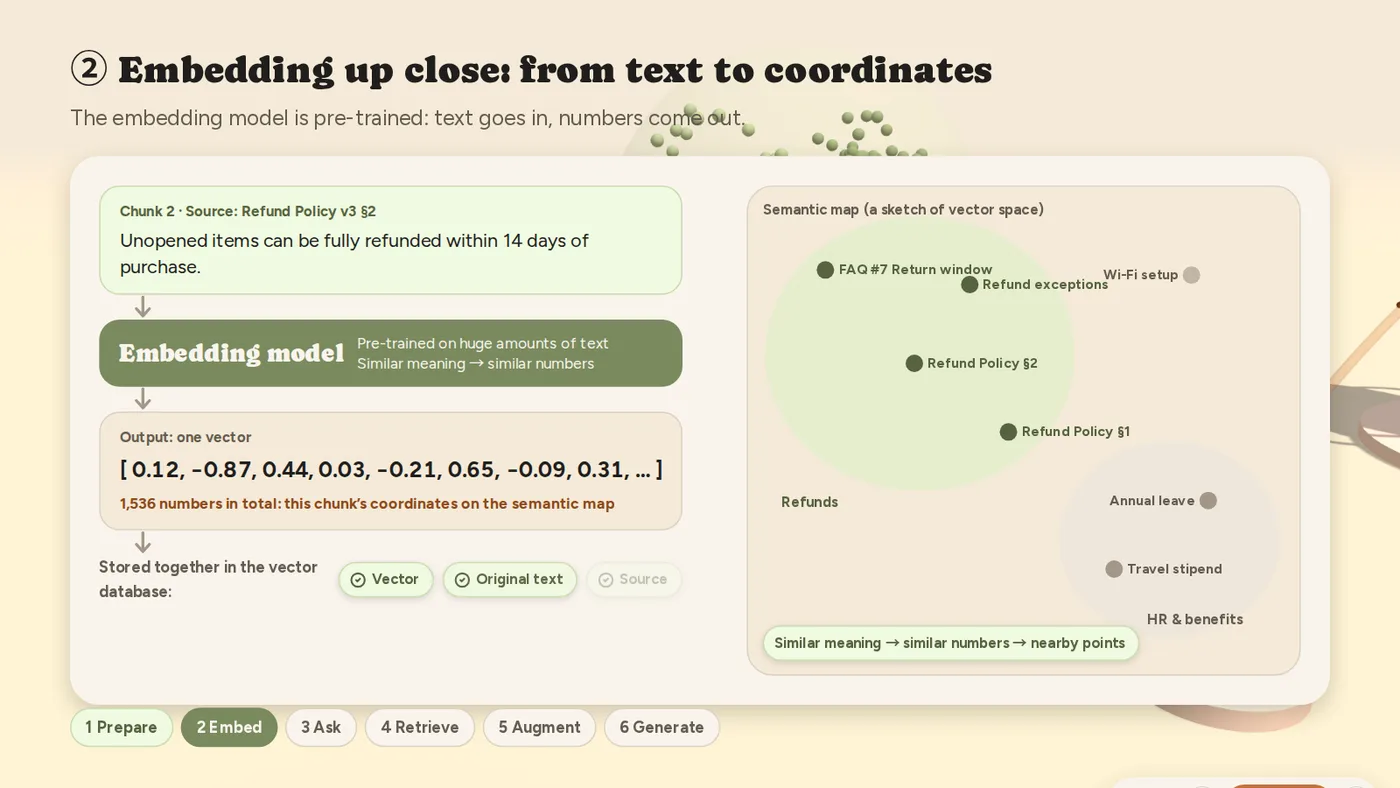
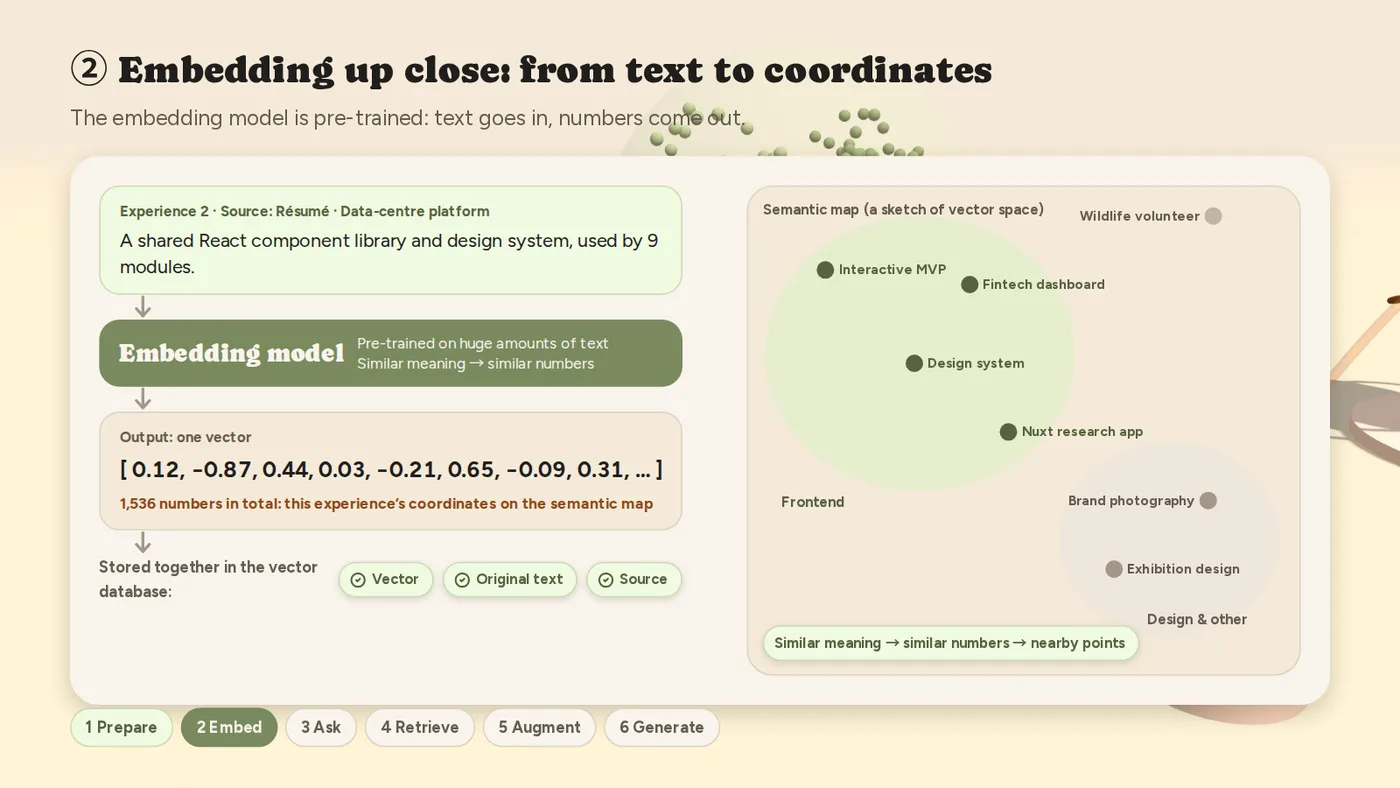
feat: retell the RAG project through the Pilotfit example
The RAG explainer now uses Pilotfit (job posting matched against a
user's experiences) instead of a refund policy. Portfolio copy follows
suit in EN / DE / ZH: challenge, the six chapters, and a technical
section grounded in Pilotfit's real setup (Gemini 1,536-dim embeddings,
pgvector + HNSW, 60/40 hybrid scoring, top 5 above a threshold). Gallery
screenshots re-captured from the updated animation; adds a pgvector tag.

Claude-Session: https://claude.ai/code/session_01Rn4QRhuYF2ZWV7ueBSbs3s

diff --git a/src/i18n/translations.ts b/src/i18n/translations.ts
@@ -635,20 +635,20 @@ export const translations: Record<Language, Translations> = {
           id: 'p-rag-explainer',
           title: 'How RAG Works — 3D Animated Explainer',
           description:
-            'An animated 3D explainer of Retrieval-Augmented Generation (RAG), the technique that lets an LLM answer from your own documents instead of its training memory. One question, "How long is our refund window?", travels through all six steps, from chunking to a cited answer, compared against an LLM guessing without RAG. Bilingual (EN / 中文) and fully offline.',
+            "An animated 3D explainer of Retrieval-Augmented Generation (RAG), told through Pilotfit, my AI job-search platform. One job posting travels through all six steps: the user's experiences are split, embedded and retrieved, and the analysis cites the experience it used, compared against an LLM that has never seen the user's background and can only guess. Bilingual (EN / 中文) and fully offline.",
           problem:
-            "What RAG is. A large language model answers from what it memorised during training. That knowledge is frozen at a cut-off date and has never seen your company's private documents, so when you ask about an internal policy it does not say \"I don't know\". It produces a fluent, confident guess.\n\nRetrieval-Augmented Generation fixes this without retraining the model. At question time the system first retrieves the most relevant passages from your own documents, then hands them to the model together with the question. The model answers from that evidence and cites where it came from.\n\nWhy it is hard to explain. The idea is simple, but the vocabulary is not: embeddings, vector databases, top-K, cosine similarity. Most explanations are either a box-and-arrow diagram or a wall of jargon. Stakeholders nod along and still expect the model to \"just know\" company policy, because they never see where an answer actually comes from.",
+            "What RAG is. A large language model answers from what it memorised during training. That knowledge is frozen at a cut-off date and has never seen private data, such as your company's documents or one job seeker's experience. So when it is asked about them, it does not say \"I don't know\". It produces a fluent, confident guess.\n\nRetrieval-Augmented Generation fixes this without retraining the model. At question time the system first retrieves the most relevant passages from your own data, then hands them to the model together with the question. The model answers from that evidence and cites where it came from.\n\nWhy an explainer. The idea is simple, but the vocabulary is not: embeddings, vector databases, top-K, cosine similarity. Most explanations are a box-and-arrow diagram or a wall of jargon, and people still expect the model to \"just know\". So this explainer uses a real product as its example: Pilotfit, where RAG matches a job posting against each user's own experience.",
           solution:
-            'I turned the pipeline into a story around one concrete question: "How long is our refund window?"\n\nIt opens with the failure case. Without RAG, the model answers "usually 30 days" with no source: a plausible hallucination. Then the same question travels through six chapters:\n1. Prepare: company documents are split into chunks with a small overlap, and every chunk keeps its source.\n2. Embed: an embedding model turns each chunk into a vector, its coordinates on a semantic map.\n3. Ask: the question is embedded with the same model.\n4. Retrieve: the question vector is compared with every chunk; the three closest win, with their similarity scores.\n5. Augment: the question and those three chunks become one prompt.\n6. Generate: the model answers from the chunks and cites Refund Policy v3 §2.\n\nIt closes with the three safeguards that keep retrieval reliable in production: hybrid search, reranking and citations.',
+            "The explainer follows one job posting through Pilotfit: \"Which of my experiences fits this job best?\"\n\nIt opens with the failure case. Without RAG, the model has never seen the user's experience, yet answers \"You're a great fit!\". Then the same posting travels through six chapters:\n1. Prepare: the résumé, projects and notes are split into one entry per experience, each auto-tagged with its technologies and kept with its source.\n2. Embed: an embedding model turns each experience into a vector, its coordinates on a semantic map.\n3. Ask: the job posting is embedded with the same model.\n4. Retrieve: the job vector is compared with every experience; the three closest win, with their similarity scores.\n5. Augment: the job and those three experiences become one prompt.\n6. Generate: the analysis names the best match, the shared React component library, and cites where it came from.\n\nIt closes with the safeguards against wrong picks, including the one Pilotfit actually uses: hybrid retrieval that weighs exact tech tags alongside vector similarity.",
           techDeepDive:
-            'RAG runs in two phases.\n\nIndexing (offline, whenever documents change): extract plain text from PDFs, wikis and databases; split it along paragraph boundaries into 300–500 character chunks, with a small overlap so no sentence is cut in half; attach source metadata (document, section) to every chunk; run each chunk through a pre-trained embedding model, which outputs a vector (1,536 numbers in the example) in which similar meaning lands close together; store the vector, the original text and the source together in a vector database.\n\nQuery time (every question): embed the question with the same model; rank chunks by cosine similarity, where 1 means the same meaning and 0 means unrelated (large collections use an approximate-nearest-neighbour index instead of comparing every chunk); keep the top K (here K = 3, scores 0.92 / 0.81 / 0.77); build an augmented prompt that tells the model to answer only from the provided context and to cite it; generate. Retrieval picks the relevant chunks, not the answer. The LLM still writes the answer, but now from evidence.\n\nWhere it goes wrong, and the fixes: bad chunking can split a key fact, and vague questions retrieve the wrong chunks. Hybrid search adds keyword matching to vector similarity, so product names, model numbers and clause IDs are not missed. Reranking retrieves a wider set (for example the top 20) and lets a second model read each chunk closely and re-order them. Citations let users and reviewers check the original.\n\nWhen to use it, and when not: RAG earns its complexity when the answer lives in private documents the model has never seen, when that information changes often, when answers need citations people can check, or when the material is too large to fit in one prompt. It is overkill for general knowledge the model already has, for a source of a few pages that can simply go into the prompt, for structured data (orders, stock), where a SQL query or an API call is more precise, and for rewriting, translating or changing tone, which involve no retrieval at all. Pilotfit applies the same idea: when it matches a job to a user\'s experiences, 60% of the score is embedding similarity and 40% is exact tech-tag overlap, so a specific technology is never left to vector distance alone.\n\nHow the explainer is built: a single 3:12 timeline drives a 3D scene (document stack, embedding ring, vector-database sphere, the user and the LLM planet), with HTML overlays for each close-up chapter so the text stays sharp and translatable. Every chapter reuses the same refund-policy example, so the numbers stay consistent end to end. Each language ships as one self-contained HTML file with scripts, styles and fonts inlined.',
+            "RAG runs in two phases, shown here with Pilotfit's real setup.\n\nIndexing (whenever an experience is added or edited): extract plain text from the résumé and notes; store one entry per experience; auto-extract tech tags from a list of about 200 keywords; run each entry through a pre-trained embedding model (Gemini, 1,536 dimensions), in which similar meaning lands close together; store the vector, the original text, the tags and the source together in PostgreSQL with pgvector and an HNSW index.\n\nQuery time (every job analysis): embed the job posting with the same model; rank experiences by cosine similarity, where 1 means the same meaning and 0 means unrelated (HNSW is an approximate-nearest-neighbour index, so not every row is compared); combine that with exact tech-tag overlap; keep the top K (the animation shows 3, Pilotfit keeps the top 5 above a threshold); build an augmented prompt that tells the model to work only from those experiences; generate. Retrieval picks the relevant experiences, not the analysis. The LLM still writes it, but now from the user's real experience.\n\nWhere it goes wrong, and the fixes: vague experience notes give the embedding little to work with, and vectors alone can blur exact names (React and Vue sit close together). Hybrid search adds keyword matching; in Pilotfit the score is 60% embedding similarity and 40% tech-tag overlap. Reranking retrieves a wider set and lets a second model re-order it. Citations show which experience an analysis drew on, so users can check it.\n\nWhen to use it, and when not: RAG earns its complexity when the answer lives in private documents the model has never seen, when that information changes often, when answers need citations people can check, or when the material is too large to fit in one prompt. It is overkill for general knowledge the model already has, for a source of a few pages that can simply go into the prompt, for structured data (orders, stock), where a SQL query or an API call is more precise, and for rewriting, translating or changing tone, which involve no retrieval at all.\n\nHow the explainer is built: a single 3:12 timeline drives a 3D scene (document stack, embedding ring, vector-database sphere, the user and the LLM planet), with HTML overlays for each close-up chapter so the text stays sharp and translatable. Every chapter reuses the same Pilotfit example, so the numbers stay consistent end to end. Each language ships as one self-contained HTML file with scripts, styles and fonts inlined.",
           features: [
-            'What RAG is, and why an LLM hallucinates without it, shown before any jargon',
+            "Told through a real product: Pilotfit matching a job posting to a user's experiences",
+            'What RAG is, and why an LLM guesses without it, shown before any jargon',
             'When RAG is worth it, and when it is overkill',
             'Six-chapter pipeline: Prepare → Embed → Ask → Retrieve → Augment → Generate',
-            'Chunking close-up: paragraph splits, overlap and source tags',
-            'Semantic map and cosine-similarity ranking with a visible top-K = 3',
-            'Production safeguards: hybrid search, reranking and citations',
+            'Semantic map and cosine-similarity ranking with a visible top-K',
+            "Pilotfit's hybrid retrieval: 60% vector similarity + 40% tech-tag matching",
             'Play / pause / chapter skip, with an EN ⇄ 中文 toggle that keeps the timeline',
           ],
         },
@@ -1230,20 +1230,20 @@ export const translations: Record<Language, Translations> = {
           id: 'p-rag-explainer',
           title: 'Wie RAG funktioniert — 3D-Animationserklärung',
           description:
-            'Eine animierte 3D-Erklärung von Retrieval-Augmented Generation (RAG), der Technik, mit der ein LLM aus den eigenen Dokumenten antwortet statt aus seinem Trainingsgedächtnis. Eine Frage („Wie lange ist unser Rückgabefenster?“) durchläuft alle sechs Schritte, vom Aufteilen der Dokumente bis zur Antwort mit Quelle, im Vergleich zu einem LLM, das ohne RAG rät. Zweisprachig (EN / 中文) und komplett offline.',
+            'Eine animierte 3D-Erklärung von Retrieval-Augmented Generation (RAG), erzählt an Pilotfit, meiner KI-Plattform für die Jobsuche. Eine Stellenanzeige durchläuft alle sechs Schritte: Die Erfahrungen der Person werden aufgeteilt, eingebettet und abgerufen, und die Analyse nennt die Erfahrung, auf die sie sich stützt, im Vergleich zu einem LLM, das den Werdegang nie gesehen hat und nur raten kann. Zweisprachig (EN / 中文) und komplett offline.',
           problem:
-            'Was RAG ist. Ein großes Sprachmodell antwortet aus dem, was es im Training gelernt hat. Dieses Wissen endet an einem Stichtag und hat die internen Dokumente eines Unternehmens nie gesehen. Fragt man nach einer internen Richtlinie, sagt es nicht „weiß ich nicht“, sondern liefert eine flüssige, selbstsichere Vermutung.\n\nRetrieval-Augmented Generation löst das, ohne das Modell neu zu trainieren. Zum Zeitpunkt der Frage sucht das System zuerst die relevantesten Abschnitte aus den eigenen Dokumenten heraus und gibt sie zusammen mit der Frage an das Modell. Das Modell antwortet auf Basis dieser Belege und nennt die Quelle.\n\nWarum das schwer zu erklären ist. Die Idee ist einfach, das Vokabular nicht: Embeddings, Vektordatenbanken, Top-K, Kosinus-Ähnlichkeit. Die meisten Erklärungen sind entweder ein Kästchen-und-Pfeile-Diagramm oder eine Wand aus Fachbegriffen. Stakeholder nicken und erwarten trotzdem, dass das Modell die Richtlinien „einfach weiß“, weil sie nie sehen, woher eine Antwort kommt.',
+            'Was RAG ist. Ein großes Sprachmodell antwortet aus dem, was es im Training gelernt hat. Dieses Wissen endet an einem Stichtag und hat private Daten nie gesehen, etwa die Dokumente eines Unternehmens oder die Erfahrungen von Bewerbenden. Fragt man danach, sagt es nicht „weiß ich nicht“, sondern liefert eine flüssige, selbstsichere Vermutung.\n\nRetrieval-Augmented Generation löst das, ohne das Modell neu zu trainieren. Zum Zeitpunkt der Frage sucht das System zuerst die relevantesten Abschnitte aus den eigenen Daten heraus und gibt sie zusammen mit der Frage an das Modell. Das Modell antwortet auf Basis dieser Belege und nennt die Quelle.\n\nWarum eine Erklärung. Die Idee ist einfach, das Vokabular nicht: Embeddings, Vektordatenbanken, Top-K, Kosinus-Ähnlichkeit. Die meisten Erklärungen sind ein Kästchen-und-Pfeile-Diagramm oder eine Wand aus Fachbegriffen, und trotzdem erwartet man, dass das Modell es „einfach weiß“. Deshalb nutzt diese Erklärung ein echtes Produkt als Beispiel: Pilotfit, wo RAG eine Stellenanzeige mit den eigenen Erfahrungen jeder Person abgleicht.',
           solution:
-            'Ich habe die Pipeline als Geschichte rund um eine konkrete Frage erzählt: „Wie lange ist unser Rückgabefenster?“\n\nSie beginnt mit dem Fehlerfall: Ohne RAG antwortet das Modell „meist 30 Tage“, ohne Quelle, eine plausible Halluzination. Dann durchläuft dieselbe Frage sechs Kapitel:\n1. Vorbereiten: Firmendokumente werden in Abschnitte mit kleiner Überlappung geteilt, jeder Abschnitt behält seine Quelle.\n2. Einbetten: Ein Embedding-Modell macht aus jedem Abschnitt einen Vektor, seine Koordinaten auf einer semantischen Karte.\n3. Fragen: Die Frage wird mit demselben Modell eingebettet.\n4. Abrufen: Der Fragevektor wird mit allen Abschnitten verglichen; die drei nächsten gewinnen, mit ihren Ähnlichkeitswerten.\n5. Anreichern: Frage und diese drei Abschnitte werden zu einem Prompt.\n6. Generieren: Das Modell antwortet aus den Abschnitten und zitiert Rückgaberichtlinie v3 §2.\n\nZum Schluss die drei Schutzmechanismen, die das Abrufen in der Praxis zuverlässig machen: hybride Suche, Reranking und Quellenangaben.',
+            'Die Erklärung folgt einer Stellenanzeige durch Pilotfit: „Welche meiner Erfahrungen passt am besten zu dieser Stelle?“\n\nSie beginnt mit dem Fehlerfall: Ohne RAG hat das Modell die Erfahrungen nie gesehen und antwortet trotzdem „Du passt perfekt!“. Dann durchläuft dieselbe Anzeige sechs Kapitel:\n1. Vorbereiten: Lebenslauf, Projekte und Notizen werden in einen Eintrag pro Erfahrung geteilt, automatisch mit Technologien getaggt und mit Quelle gespeichert.\n2. Einbetten: Ein Embedding-Modell macht aus jeder Erfahrung einen Vektor, ihre Koordinaten auf einer semantischen Karte.\n3. Fragen: Die Stellenanzeige wird mit demselben Modell eingebettet.\n4. Abrufen: Der Stellenvektor wird mit allen Erfahrungen verglichen; die drei nächsten gewinnen, mit ihren Ähnlichkeitswerten.\n5. Anreichern: Stelle und diese drei Erfahrungen werden zu einem Prompt.\n6. Generieren: Die Analyse nennt den besten Treffer, die gemeinsame React-Komponentenbibliothek, und zeigt ihre Quelle.\n\nZum Schluss die Schutzmechanismen gegen falsche Treffer, darunter der, den Pilotfit tatsächlich nutzt: hybrides Abrufen, das exakte Tech-Tags neben der Vektorähnlichkeit gewichtet.',
           techDeepDive:
-            'RAG läuft in zwei Phasen.\n\nIndexierung (offline, bei jeder Dokumentänderung): Klartext aus PDFs, Wikis und Datenbanken extrahieren; entlang von Absätzen in Abschnitte von 300–500 Zeichen teilen, mit kleiner Überlappung, damit kein Satz zerschnitten wird; jedem Abschnitt Quellen-Metadaten (Dokument, Abschnitt) anhängen; jeden Abschnitt durch ein vortrainiertes Embedding-Modell schicken, das einen Vektor ausgibt (im Beispiel 1.536 Zahlen), in dem ähnliche Bedeutung nah beieinander liegt; Vektor, Originaltext und Quelle gemeinsam in einer Vektordatenbank speichern.\n\nAbfrage (bei jeder Frage): die Frage mit demselben Modell einbetten; Abschnitte nach Kosinus-Ähnlichkeit sortieren, wobei 1 gleiche Bedeutung und 0 keinen Bezug heißt (große Sammlungen nutzen einen Approximate-Nearest-Neighbour-Index, statt jeden Abschnitt zu vergleichen); die Top K behalten (hier K = 3, Werte 0,92 / 0,81 / 0,77); einen angereicherten Prompt bauen, der das Modell anweist, nur aus dem gegebenen Kontext zu antworten und ihn zu zitieren; generieren. Das Abrufen wählt relevante Abschnitte aus, nicht die Antwort. Die Antwort schreibt weiterhin das LLM, jetzt aber auf Basis von Belegen.\n\nTypische Fehler und Gegenmittel: Schlechtes Aufteilen kann eine Schlüsselinformation zerschneiden, vage Fragen holen die falschen Abschnitte. Hybride Suche ergänzt die Vektorähnlichkeit um Schlüsselwortsuche, damit Produktnamen, Modellnummern und Klausel-IDs nicht verloren gehen. Reranking holt zuerst eine größere Menge (etwa die Top 20) und lässt ein zweites Modell jeden Abschnitt genau lesen und neu sortieren. Quellenangaben erlauben Nutzern und Prüfern, das Original nachzulesen.\n\nWann es sich lohnt und wann nicht: RAG rechtfertigt seinen Aufwand, wenn die Antwort in internen Dokumenten steckt, die das Modell nie gesehen hat, wenn sich diese Informationen oft ändern, wenn Antworten nachprüfbare Quellen brauchen oder wenn das Material zu groß für einen einzigen Prompt ist. Überdimensioniert ist es für Allgemeinwissen, das das Modell ohnehin hat, für wenige Seiten, die einfach in den Prompt passen, für strukturierte Daten (Bestellungen, Lagerbestand), bei denen eine SQL-Abfrage oder ein API-Aufruf präziser ist, und für Umformulieren, Übersetzen oder Tonwechsel, bei denen gar nichts abgerufen werden muss. Pilotfit nutzt dieselbe Idee: Beim Abgleich einer Stelle mit den Erfahrungen eines Nutzers zählt die Embedding-Ähnlichkeit zu 60 % und die exakte Übereinstimmung von Tech-Tags zu 40 %, damit eine konkrete Technologie nie allein von der Vektordistanz abhängt.\n\nSo ist die Erklärung gebaut: Eine einzige 3:12-Timeline steuert eine 3D-Szene (Dokumentenstapel, Embedding-Ring, Vektordatenbank-Kugel, Nutzer und LLM-Planet), mit HTML-Overlays für jedes Detailkapitel, damit Text scharf und übersetzbar bleibt. Jedes Kapitel nutzt dasselbe Rückgabe-Beispiel, sodass die Zahlen durchgehend stimmen. Jede Sprache ist eine eigenständige HTML-Datei mit eingebetteten Skripten, Styles und Schriften.',
+            'RAG läuft in zwei Phasen, hier mit dem echten Aufbau von Pilotfit.\n\nIndexierung (bei jeder neuen oder geänderten Erfahrung): Klartext aus Lebenslauf und Notizen extrahieren; einen Eintrag pro Erfahrung speichern; Tech-Tags aus einer Liste von rund 200 Schlüsselwörtern automatisch extrahieren; jeden Eintrag durch ein vortrainiertes Embedding-Modell schicken (Gemini, 1.536 Dimensionen), in dem ähnliche Bedeutung nah beieinander liegt; Vektor, Originaltext, Tags und Quelle gemeinsam in PostgreSQL mit pgvector und einem HNSW-Index speichern.\n\nAbfrage (bei jeder Stellenanalyse): die Stellenanzeige mit demselben Modell einbetten; Erfahrungen nach Kosinus-Ähnlichkeit sortieren, wobei 1 gleiche Bedeutung und 0 keinen Bezug heißt (HNSW ist ein Approximate-Nearest-Neighbour-Index, es wird also nicht jede Zeile verglichen); mit der exakten Übereinstimmung der Tech-Tags kombinieren; die Top K behalten (die Animation zeigt 3, Pilotfit behält die Top 5 über einem Schwellenwert); einen angereicherten Prompt bauen, der das Modell anweist, nur mit diesen Erfahrungen zu arbeiten; generieren. Das Abrufen wählt relevante Erfahrungen aus, nicht die Analyse. Die schreibt weiterhin das LLM, jetzt aber auf Basis der echten Erfahrungen.\n\nTypische Fehler und Gegenmittel: Vage Erfahrungsnotizen geben dem Embedding wenig Halt, und Vektoren allein können exakte Namen verwischen (React und Vue liegen nah beieinander). Hybride Suche ergänzt die Schlüsselwortsuche; bei Pilotfit zählt die Embedding-Ähnlichkeit zu 60 % und die Tech-Tag-Übereinstimmung zu 40 %. Reranking holt eine größere Menge und lässt ein zweites Modell neu sortieren. Quellenangaben zeigen, auf welche Erfahrung sich eine Analyse stützt, damit Nutzer sie prüfen können.\n\nWann es sich lohnt und wann nicht: RAG rechtfertigt seinen Aufwand, wenn die Antwort in internen Dokumenten steckt, die das Modell nie gesehen hat, wenn sich diese Informationen oft ändern, wenn Antworten nachprüfbare Quellen brauchen oder wenn das Material zu groß für einen einzigen Prompt ist. Überdimensioniert ist es für Allgemeinwissen, das das Modell ohnehin hat, für wenige Seiten, die einfach in den Prompt passen, für strukturierte Daten (Bestellungen, Lagerbestand), bei denen eine SQL-Abfrage oder ein API-Aufruf präziser ist, und für Umformulieren, Übersetzen oder Tonwechsel, bei denen gar nichts abgerufen werden muss.\n\nSo ist die Erklärung gebaut: Eine einzige 3:12-Timeline steuert eine 3D-Szene (Dokumentenstapel, Embedding-Ring, Vektordatenbank-Kugel, Nutzer und LLM-Planet), mit HTML-Overlays für jedes Detailkapitel, damit Text scharf und übersetzbar bleibt. Jedes Kapitel nutzt dasselbe Pilotfit-Beispiel, sodass die Zahlen durchgehend stimmen. Jede Sprache ist eine eigenständige HTML-Datei mit eingebetteten Skripten, Styles und Schriften.',
           features: [
-            'Was RAG ist und warum ein LLM ohne RAG halluziniert, gezeigt vor jedem Fachbegriff',
+            'Erzählt an einem echten Produkt: Pilotfit gleicht eine Stelle mit den Erfahrungen ab',
+            'Was RAG ist und warum ein LLM ohne RAG rät, gezeigt vor jedem Fachbegriff',
             'Wann sich RAG lohnt und wann es mit Kanonen auf Spatzen schießt',
             'Sechs Kapitel: Vorbereiten → Einbetten → Fragen → Abrufen → Anreichern → Generieren',
-            'Aufteilen im Detail: Absatzgrenzen, Überlappung und Quellenangaben',
-            'Semantische Karte und Kosinus-Ranking mit sichtbarem Top-K = 3',
-            'Praxis-Schutzmechanismen: hybride Suche, Reranking, Quellenangaben',
+            'Semantische Karte und Kosinus-Ranking mit sichtbarem Top-K',
+            'Hybrides Abrufen in Pilotfit: 60 % Vektorähnlichkeit + 40 % Tech-Tags',
             'Play / Pause / Kapitelsprung, EN ⇄ 中文-Umschalter, der die Timeline beibehält',
           ],
         },
@@ -1812,20 +1812,20 @@ export const translations: Record<Language, Translations> = {
           id: 'p-rag-explainer',
           title: 'RAG 解析 — 3D 動畫流程說明',
           description:
-            '用一支 3D 動畫解析 RAG（檢索增強生成）：讓 LLM 根據「你自己的文件」回答，而不是憑訓練時的記憶。一個問題「我們的退款期限是多久？」走完六個步驟，從文件切分到附出處的回答，並對照沒有 RAG 時 LLM 憑記憶亂猜的情況。中英雙語、完全離線可用。',
+            '用一支 3D 動畫解析 RAG（檢索增強生成），並以我的 AI 求職平台 Pilotfit 為例：一份職缺走完六個步驟，使用者的經歷被切分、向量化、檢索，最後的分析會標出引用了哪一段經歷；並對照沒有 RAG 時，LLM 沒看過使用者的經歷、只能憑空猜測。中英雙語、完全離線可用。',
           problem:
-            'RAG 是什麼？大型語言模型只能根據訓練時記住的內容作答。這些知識停在某個截止日期，也從沒看過公司內部的文件；所以問它公司規定時，它不會說「我不知道」，而是給出一個流暢又自信的猜測，也就是幻覺。\n\nRAG（Retrieval-Augmented Generation，檢索增強生成）不需要重新訓練模型就能解決這件事：使用者提問時，系統先從你的文件中「檢索」出最相關的段落，再把這些段落連同問題一起交給模型，讓模型根據這些證據作答，並標出答案的出處。\n\n為什麼難解釋？概念很簡單，術語卻很多：embedding、向量資料庫、top-K、餘弦相似度。大多數解釋不是方框加箭頭的架構圖，就是一堆名詞。利害關係人聽完點頭，卻仍期待模型「本來就知道」公司規定，因為他們從來沒看過答案到底從哪裡來。',
+            'RAG 是什麼？大型語言模型只能根據訓練時記住的內容作答。這些知識停在某個截止日期，也從沒看過私有的資料，例如公司內部文件，或某位求職者的經歷；所以被問到時，它不會說「我不知道」，而是給出一個流暢又自信的猜測，也就是幻覺。\n\nRAG（Retrieval-Augmented Generation，檢索增強生成）不需要重新訓練模型就能解決這件事：提問時，系統先從你自己的資料中「檢索」出最相關的段落，再把這些段落連同問題一起交給模型，讓模型根據這些證據作答，並標出答案的出處。\n\n為什麼做這支動畫？概念很簡單，術語卻很多：embedding、向量資料庫、top-K、餘弦相似度。大多數解釋不是方框加箭頭的架構圖，就是一堆名詞，大家還是會期待模型「本來就知道」。所以這支動畫直接用真實產品當例子：在 Pilotfit 裡，RAG 負責把職缺和每位使用者自己的經歷做比對。',
           solution:
-            '我把整條流程說成一個故事，只圍繞一個具體問題：「我們的退款期限是多久？」\n\n開場先演示失敗情境：沒有 RAG 時，模型回答「通常是 30 天」，沒有任何出處，是一個聽起來合理的幻覺。接著同一個問題走過六個章節：\n1. 準備知識：公司文件切成段落，前後保留一小段重疊，每段都記下出處。\n2. 向量化：embedding 模型把每個段落變成一組向量，也就是它在語意地圖上的座標。\n3. 提問：問題用同一個模型轉成向量。\n4. 檢索：問題向量和所有段落比較，取最接近的 3 段，並顯示相似度分數。\n5. 增強：問題加上這 3 段，組成一個 prompt。\n6. 生成：模型根據這些段落作答，並引用「退款政策 v3 §2」。\n\n最後以實務上讓檢索更可靠的三道防線收尾：混合搜尋、重新排序、引用來源。',
+            '動畫跟著一份職缺走過 Pilotfit：「這份職缺，我哪段經歷最符合？」\n\n開場先演示失敗情境：沒有 RAG 時，模型沒看過使用者的任何經歷，卻回答「你非常適合！」。接著同一份職缺走過六個章節：\n1. 準備知識：履歷、專案和補充說明拆成一段一段的經歷，自動標上技術標籤，並記下出處。\n2. 向量化：embedding 模型把每段經歷變成一組向量，也就是它在語意地圖上的座標。\n3. 提問：職缺用同一個模型轉成向量。\n4. 檢索：職缺向量和每段經歷比較，取最接近的 3 段，並顯示相似度分數。\n5. 增強：職缺加上這 3 段經歷，組成一個 prompt。\n6. 生成：分析指出最符合的是「React 共用元件庫」這段經歷，並標出出處。\n\n最後以避免挑錯的防線收尾，包括 Pilotfit 實際採用的做法：在向量相似度之外，也加權比對技術標籤。',
           techDeepDive:
-            'RAG 分成兩個階段。\n\n建立索引（離線進行，文件有變動才重跑）：從 PDF、Wiki、資料庫抽出純文字；依段落切成 300–500 字的段落，前後保留一小段重疊，避免一句話被切斷；每段附上出處（文件、章節）；再用預先訓練好的 embedding 模型把每段轉成向量（範例中是 1,536 個數字），意思相近的內容，向量也會彼此靠近；最後把向量、原文與出處一起存進向量資料庫。\n\n查詢階段（每次提問）：用同一個模型把問題轉成向量；以餘弦相似度為所有段落排序，1 代表意思相同、0 代表無關（資料量大時改用近似最近鄰 ANN 索引，不必逐一比較）；取前 K 段（範例中 K = 3，分數為 0.92／0.81／0.77）；組成增強後的 prompt，要求模型只根據提供的內容作答並註明出處；最後生成答案。檢索挑的是「相關段落」，不是答案本身；答案仍由 LLM 撰寫，只是這次有了根據。\n\n常見出錯點與對策：切分不當會把關鍵事實切斷，問題太模糊會撈到錯的段落。混合搜尋在向量相似度之外加上關鍵字比對，產品名稱、型號、條款編號才不會漏掉；重新排序先撈較多候選（例如前 20 段），再讓第二個模型逐段細讀、重新排名；引用來源讓使用者與審核者可以回頭核對原文。\n\n什麼時候該用、什麼時候不用：當答案藏在模型沒看過的內部文件裡、資料經常更新、答案需要附出處讓人核對，或資料量大到一次 prompt 塞不下時，RAG 才值得它帶來的複雜度。反過來，一般常識模型本來就答得出來；只有幾頁的資料直接放進 prompt 就好；訂單、庫存這類結構化資料用 SQL 或 API 查詢更精準；改寫、翻譯、換語氣則完全不需要檢索。這些情況硬上 RAG，就是殺雞用牛刀。Pilotfit 也是同樣的思路：比對職缺和使用者的經歷時，分數 60% 來自 embedding 相似度、40% 來自技術標籤的精確比對，具體的技術名詞不會只靠向量距離決定。\n\n動畫怎麼做：一條 3:12 的時間軸驅動整個 3D 場景（文件堆、embedding 圓環、向量資料庫球體、使用者與 LLM 星球），每個特寫章節以 HTML 疊層呈現，文字清晰且方便翻譯。所有章節都沿用同一份退款政策範例，數字前後一致。每種語言各是一個自包含的 HTML 檔，腳本、樣式與字型全部內嵌。',
+            'RAG 分成兩個階段，這裡用 Pilotfit 的實際做法說明。\n\n建立索引（每次新增或修改經歷時）：從履歷與補充說明抽出純文字；一段經歷存成一筆；從約 200 個技術關鍵字中自動抽出技術標籤；再用預先訓練好的 embedding 模型（Gemini，1,536 維）把每段經歷轉成向量，意思相近的內容，向量也會彼此靠近；最後把向量、原文、標籤與出處一起存進 PostgreSQL（pgvector，HNSW 索引）。\n\n查詢階段（每次分析職缺）：用同一個模型把職缺轉成向量；以餘弦相似度為所有經歷排序，1 代表意思相同、0 代表無關（HNSW 是近似最近鄰索引，不必逐筆比較）；再加上技術標籤的精確比對；取前 K 段（動畫中是 3 段，Pilotfit 實際取門檻以上的前 5 段）；組成增強後的 prompt，要求模型只根據這些經歷分析；最後生成結果。檢索挑的是「相關的經歷」，不是分析本身；分析仍由 LLM 撰寫，只是這次根據的是使用者真實的經歷。\n\n常見出錯點與對策：經歷寫得太籠統，embedding 就抓不到重點；只靠向量，也可能把專有名詞搞混（React 和 Vue 在向量空間裡很近）。混合搜尋在向量之外加上關鍵字比對，Pilotfit 的分數是 60% embedding 相似度加 40% 技術標籤比對；重新排序先撈較多候選，再讓第二個模型重新排名；引用來源則標出分析根據的是哪段經歷，讓使用者可以核對。\n\n什麼時候該用、什麼時候不用：當答案藏在模型沒看過的內部文件裡、資料經常更新、答案需要附出處讓人核對，或資料量大到一次 prompt 塞不下時，RAG 才值得它帶來的複雜度。反過來，一般常識模型本來就答得出來；只有幾頁的資料直接放進 prompt 就好；訂單、庫存這類結構化資料用 SQL 或 API 查詢更精準；改寫、翻譯、換語氣則完全不需要檢索。這些情況硬上 RAG，就是殺雞用牛刀。\n\n動畫怎麼做：一條 3:12 的時間軸驅動整個 3D 場景（文件堆、embedding 圓環、向量資料庫球體、使用者與 LLM 星球），每個特寫章節以 HTML 疊層呈現，文字清晰且方便翻譯。所有章節都沿用同一個 Pilotfit 例子，數字前後一致。每種語言各是一個自包含的 HTML 檔，腳本、樣式與字型全部內嵌。',
           features: [
-            '先講清楚 RAG 是什麼、沒有它 LLM 為什麼會幻覺，再進入術語',
+            '以真實產品為例：Pilotfit 如何把職缺和使用者的經歷做比對',
+            '先講清楚 RAG 是什麼、沒有它 LLM 為什麼會亂猜，再進入術語',
             '什麼時候值得用 RAG、什麼時候是殺雞用牛刀',
             '六章流程：準備 → 向量化 → 提問 → 檢索 → 增強 → 生成',
-            '切分特寫：依段落切、前後重疊、每段附出處',
-            '語意地圖與餘弦相似度排名，看得見 top-K = 3',
-            '實務防線：混合搜尋、重新排序、引用來源',
+            '語意地圖與餘弦相似度排名，看得見 top-K',
+            'Pilotfit 的混合檢索：60% 向量相似度 ＋ 40% 技術標籤比對',
             '播放／暫停／章節跳轉，EN ⇄ 中文切換並保留目前時間',
           ],
         },

diff --git a/src/constants.ts b/src/constants.ts
@@ -462,8 +462,8 @@ export const PROJECTS_DATA: Project[] = [
     id: 'p-rag-explainer',
     title: 'How RAG Works — 3D Animated Explainer',
     description:
-      'An animated 3D explainer of Retrieval-Augmented Generation (RAG), the technique that lets an LLM answer from your own documents instead of its training memory. One question, "How long is our refund window?", travels through all six steps, from chunking to a cited answer, compared against an LLM guessing without RAG. Bilingual (EN / 中文) and fully offline.',
-    tags: ['RAG', 'LLM', 'Embeddings', 'Vector Search', 'Reranking', '3D Animation', 'Motion Design', 'i18n'],
+      "An animated 3D explainer of Retrieval-Augmented Generation (RAG), told through Pilotfit, my AI job-search platform. One job posting travels through all six steps: the user's experiences are split, embedded and retrieved, and the analysis cites the experience it used, compared against an LLM that has never seen the user's background and can only guess. Bilingual (EN / 中文) and fully offline.",
+    tags: ['RAG', 'LLM', 'Embeddings', 'Vector Search', 'Reranking', '3D Animation', 'pgvector', 'i18n'],
     image: getAssetUrl('images/rag-explainer-cover.webp'),
     banner: getAssetUrl('images/rag-explainer-cover.webp'),
     gallery: [
@@ -474,24 +474,24 @@ export const PROJECTS_DATA: Project[] = [
     link: 'https://shueny.github.io/rag-explainer/en.html',
     repo: 'https://github.com/shueny/rag-explainer',
     visualDescription:
-      'Warm 3D scene: document stack, embedding ring, vector-database sphere and the LLM planet, with close-up chapter overlays.',
+      'Warm 3D scene tracing a Pilotfit job posting: experience stack, embedding ring, vector-database sphere and the LLM planet, with close-up chapter overlays.',
     category: 'design',
     domains: ['ai'],
     problem:
-      "What RAG is. A large language model answers from what it memorised during training. That knowledge is frozen at a cut-off date and has never seen your company's private documents, so when you ask about an internal policy it does not say \"I don't know\". It produces a fluent, confident guess.\n\nRetrieval-Augmented Generation fixes this without retraining the model. At question time the system first retrieves the most relevant passages from your own documents, then hands them to the model together with the question. The model answers from that evidence and cites where it came from.\n\nWhy it is hard to explain. The idea is simple, but the vocabulary is not: embeddings, vector databases, top-K, cosine similarity. Most explanations are either a box-and-arrow diagram or a wall of jargon. Stakeholders nod along and still expect the model to \"just know\" company policy, because they never see where an answer actually comes from.",
+      "What RAG is. A large language model answers from what it memorised during training. That knowledge is frozen at a cut-off date and has never seen private data, such as your company's documents or one job seeker's experience. So when it is asked about them, it does not say \"I don't know\". It produces a fluent, confident guess.\n\nRetrieval-Augmented Generation fixes this without retraining the model. At question time the system first retrieves the most relevant passages from your own data, then hands them to the model together with the question. The model answers from that evidence and cites where it came from.\n\nWhy an explainer. The idea is simple, but the vocabulary is not: embeddings, vector databases, top-K, cosine similarity. Most explanations are a box-and-arrow diagram or a wall of jargon, and people still expect the model to \"just know\". So this explainer uses a real product as its example: Pilotfit, where RAG matches a job posting against each user's own experience.",
     solution:
-      'I turned the pipeline into a story around one concrete question: "How long is our refund window?"\n\nIt opens with the failure case. Without RAG, the model answers "usually 30 days" with no source: a plausible hallucination. Then the same question travels through six chapters:\n1. Prepare: company documents are split into chunks with a small overlap, and every chunk keeps its source.\n2. Embed: an embedding model turns each chunk into a vector, its coordinates on a semantic map.\n3. Ask: the question is embedded with the same model.\n4. Retrieve: the question vector is compared with every chunk; the three closest win, with their similarity scores.\n5. Augment: the question and those three chunks become one prompt.\n6. Generate: the model answers from the chunks and cites Refund Policy v3 §2.\n\nIt closes with the three safeguards that keep retrieval reliable in production: hybrid search, reranking and citations.',
+      "The explainer follows one job posting through Pilotfit: \"Which of my experiences fits this job best?\"\n\nIt opens with the failure case. Without RAG, the model has never seen the user's experience, yet answers \"You're a great fit!\". Then the same posting travels through six chapters:\n1. Prepare: the résumé, projects and notes are split into one entry per experience, each auto-tagged with its technologies and kept with its source.\n2. Embed: an embedding model turns each experience into a vector, its coordinates on a semantic map.\n3. Ask: the job posting is embedded with the same model.\n4. Retrieve: the job vector is compared with every experience; the three closest win, with their similarity scores.\n5. Augment: the job and those three experiences become one prompt.\n6. Generate: the analysis names the best match, the shared React component library, and cites where it came from.\n\nIt closes with the safeguards against wrong picks, including the one Pilotfit actually uses: hybrid retrieval that weighs exact tech tags alongside vector similarity.",
     features: [
-      'What RAG is, and why an LLM hallucinates without it, shown before any jargon',
+      "Told through a real product: Pilotfit matching a job posting to a user's experiences",
+      'What RAG is, and why an LLM guesses without it, shown before any jargon',
       'When RAG is worth it, and when it is overkill',
       'Six-chapter pipeline: Prepare → Embed → Ask → Retrieve → Augment → Generate',
-      'Chunking close-up: paragraph splits, overlap and source tags',
-      'Semantic map and cosine-similarity ranking with a visible top-K = 3',
-      'Production safeguards: hybrid search, reranking and citations',
+      'Semantic map and cosine-similarity ranking with a visible top-K',
+      "Pilotfit's hybrid retrieval: 60% vector similarity + 40% tech-tag matching",
       'Play / pause / chapter skip, with an EN ⇄ 中文 toggle that keeps the timeline',
     ],
     techDeepDive:
-      'RAG runs in two phases.\n\nIndexing (offline, whenever documents change): extract plain text from PDFs, wikis and databases; split it along paragraph boundaries into 300–500 character chunks, with a small overlap so no sentence is cut in half; attach source metadata (document, section) to every chunk; run each chunk through a pre-trained embedding model, which outputs a vector (1,536 numbers in the example) in which similar meaning lands close together; store the vector, the original text and the source together in a vector database.\n\nQuery time (every question): embed the question with the same model; rank chunks by cosine similarity, where 1 means the same meaning and 0 means unrelated (large collections use an approximate-nearest-neighbour index instead of comparing every chunk); keep the top K (here K = 3, scores 0.92 / 0.81 / 0.77); build an augmented prompt that tells the model to answer only from the provided context and to cite it; generate. Retrieval picks the relevant chunks, not the answer. The LLM still writes the answer, but now from evidence.\n\nWhere it goes wrong, and the fixes: bad chunking can split a key fact, and vague questions retrieve the wrong chunks. Hybrid search adds keyword matching to vector similarity, so product names, model numbers and clause IDs are not missed. Reranking retrieves a wider set (for example the top 20) and lets a second model read each chunk closely and re-order them. Citations let users and reviewers check the original.\n\nWhen to use it, and when not: RAG earns its complexity when the answer lives in private documents the model has never seen, when that information changes often, when answers need citations people can check, or when the material is too large to fit in one prompt. It is overkill for general knowledge the model already has, for a source of a few pages that can simply go into the prompt, for structured data (orders, stock), where a SQL query or an API call is more precise, and for rewriting, translating or changing tone, which involve no retrieval at all. Pilotfit applies the same idea: when it matches a job to a user\'s experiences, 60% of the score is embedding similarity and 40% is exact tech-tag overlap, so a specific technology is never left to vector distance alone.\n\nHow the explainer is built: a single 3:12 timeline drives a 3D scene (document stack, embedding ring, vector-database sphere, the user and the LLM planet), with HTML overlays for each close-up chapter so the text stays sharp and translatable. Every chapter reuses the same refund-policy example, so the numbers stay consistent end to end. Each language ships as one self-contained HTML file with scripts, styles and fonts inlined.',
+      "RAG runs in two phases, shown here with Pilotfit's real setup.\n\nIndexing (whenever an experience is added or edited): extract plain text from the résumé and notes; store one entry per experience; auto-extract tech tags from a list of about 200 keywords; run each entry through a pre-trained embedding model (Gemini, 1,536 dimensions), in which similar meaning lands close together; store the vector, the original text, the tags and the source together in PostgreSQL with pgvector and an HNSW index.\n\nQuery time (every job analysis): embed the job posting with the same model; rank experiences by cosine similarity, where 1 means the same meaning and 0 means unrelated (HNSW is an approximate-nearest-neighbour index, so not every row is compared); combine that with exact tech-tag overlap; keep the top K (the animation shows 3, Pilotfit keeps the top 5 above a threshold); build an augmented prompt that tells the model to work only from those experiences; generate. Retrieval picks the relevant experiences, not the analysis. The LLM still writes it, but now from the user's real experience.\n\nWhere it goes wrong, and the fixes: vague experience notes give the embedding little to work with, and vectors alone can blur exact names (React and Vue sit close together). Hybrid search adds keyword matching; in Pilotfit the score is 60% embedding similarity and 40% tech-tag overlap. Reranking retrieves a wider set and lets a second model re-order it. Citations show which experience an analysis drew on, so users can check it.\n\nWhen to use it, and when not: RAG earns its complexity when the answer lives in private documents the model has never seen, when that information changes often, when answers need citations people can check, or when the material is too large to fit in one prompt. It is overkill for general knowledge the model already has, for a source of a few pages that can simply go into the prompt, for structured data (orders, stock), where a SQL query or an API call is more precise, and for rewriting, translating or changing tone, which involve no retrieval at all.\n\nHow the explainer is built: a single 3:12 timeline drives a 3D scene (document stack, embedding ring, vector-database sphere, the user and the LLM planet), with HTML overlays for each close-up chapter so the text stays sharp and translatable. Every chapter reuses the same Pilotfit example, so the numbers stay consistent end to end. Each language ships as one self-contained HTML file with scripts, styles and fonts inlined.",
   },
   {
     id: 'p-tomato',
